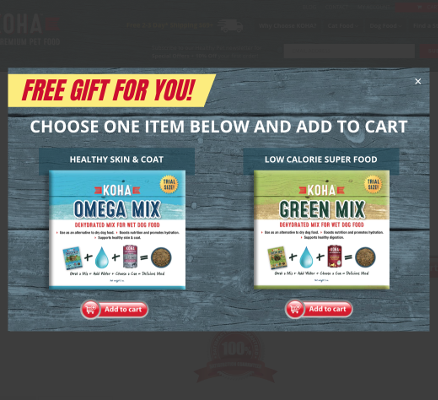
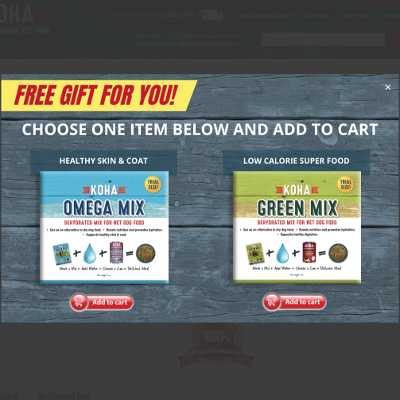
Updated links, screenshot, and text.

Changed region(s): [[0.0, 0.15, 1.0, 0.84], [0.51, 0.66, 0.54, 0.72], [0.06, 0.39, 0.09, 0.42]]

diff --git a/publish/index.php b/publish/index.php
@@ -20,8 +20,8 @@
 			<div class="col">
 				<img src="images/kohapets_screenshot.png" alt="Koha Pets" />
 				<h2>Koha Pets</h2>
-				<p>I was hired as a BigCommerce developer to add new features to this existing site based on the client's requirements.</p>
-				<p>On the product details page, after a customer adds the product to their cart, I determine whether or not a free sample should be offered. If so, and the sample products are not already in their cart, I show a pop-up displaying two possible options. The customer can then add either product to their cart. A cart level discount that is set up in the backend removes the cost.</p>
+				<p>I was independently contracted as a BigCommerce developer to add new features to this existing site based on the client's requirements.</p>
+				<p>After a customer adds a product to their cart from the product details page, it is determined whether or not a free sample should be offered. If so, and the sample products are not already in their cart, I show a pop-up displaying two options the customer can choose from. A cart level discount that is set up in the backend removes the cost.</p>
 				<p>This is a BigCommerce site and utilizes BigCommerce's Stencil API.</p>
 				<p><a href="https://kohapet.com/" target="_blank">View the Site</a></p>
 			</div>
@@ -31,7 +31,7 @@
 				<p>I implemented this site for RCA, LLC, a company that will be offering a new concept for constructing multi-story, multi-dwelling facilities. I was hired as a web developer to build this new site based on the client's design.</p>
 				<p>On the homepage, I utilized the Bootstrap grid to fulfill the client's requirement for a left-right, snaking flow chart on larger screens, but adapt to a purely vertical layout on mobile devices.</p>
 				<p>This responsive site is built on HTML, CSS, JavaScript, jQuery, and Bootstrap.</p>
-				<p><a href="http://www.rca-modular.com" target="_blank">View the Site</a></p>
+				<p><a href="https://www.rca-modular.com" target="_blank">View the Site</a></p>
 			</div>
 		</div>
 		<div class="row">

diff --git a/publish/header.php b/publish/header.php
@@ -1,6 +1,6 @@
 <header>
 	<div class="container">
-		<h1><a href="index.php">Laurie Fumarolo</a></h1>
+		<h1><a href="./">Laurie Fumarolo</a></h1>
 		<h2>Web Developer</h2>
 	</div>
 </header>
